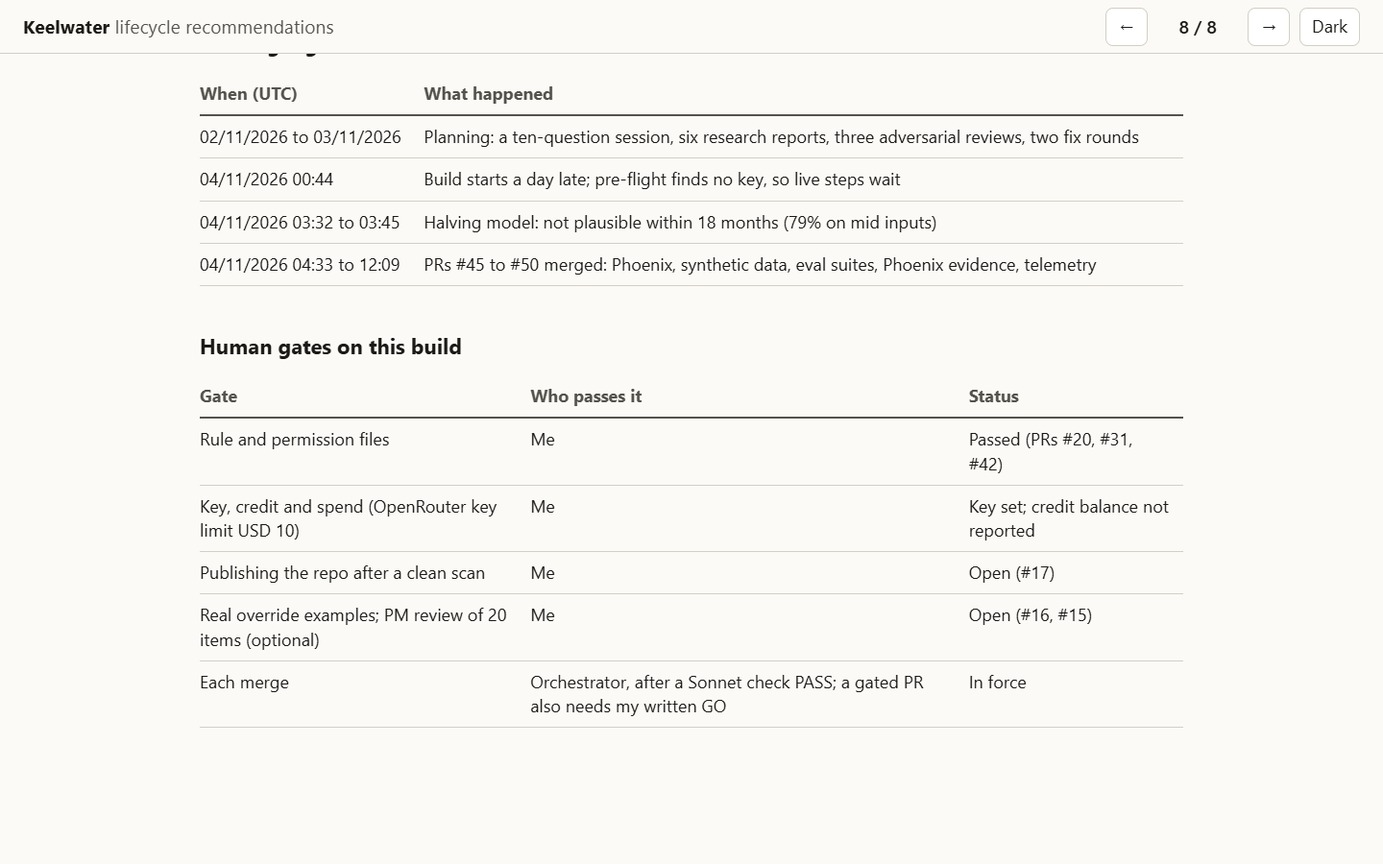
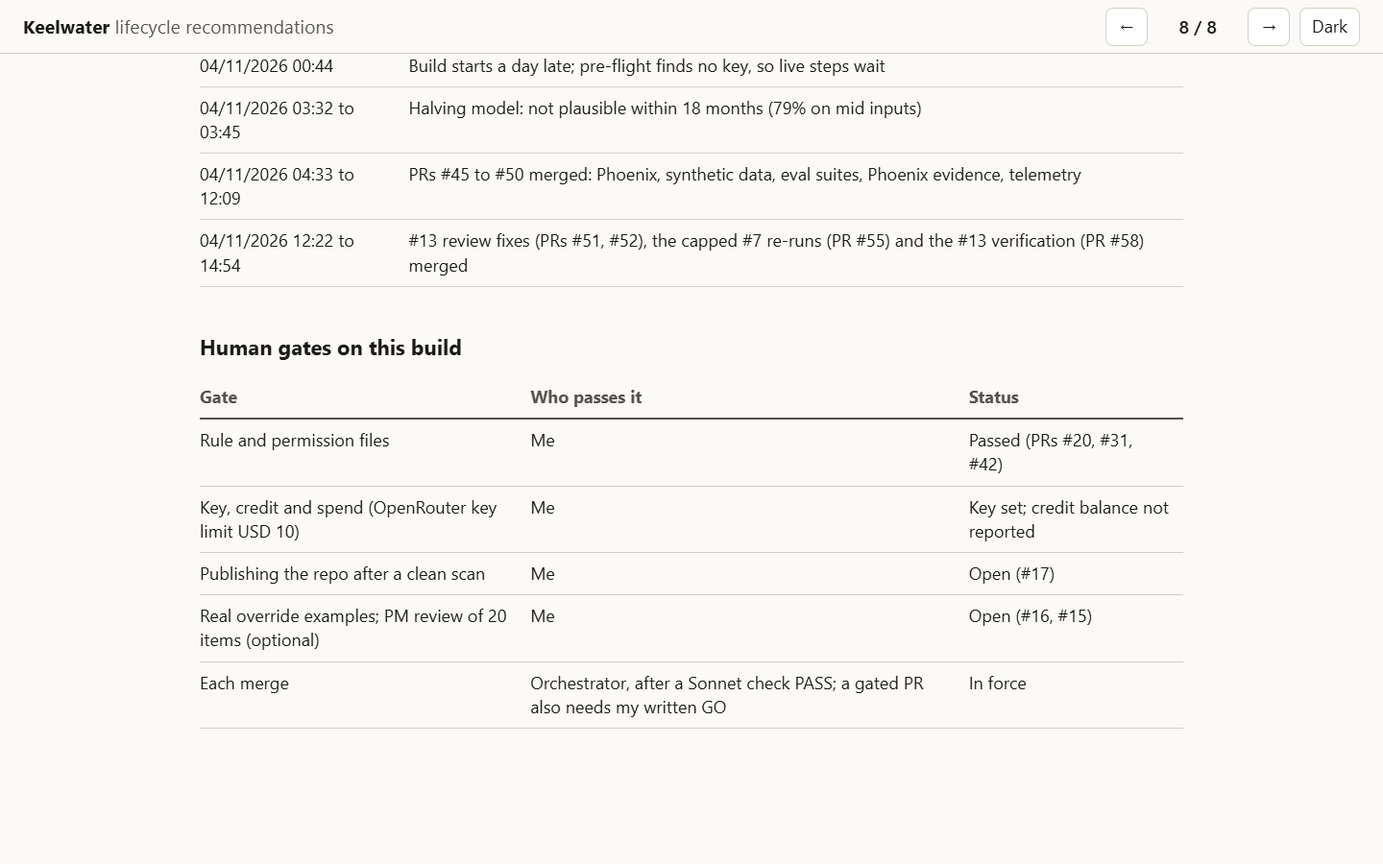
Deck: final refresh after #7, #13 and the telemetry (#40)
Claude-Session: https://claude.ai/code/session_01EjiHfnQNyk2qKsKvuTaiFz

diff --git a/site/presentation/index.html b/site/presentation/index.html
@@ -222,7 +222,7 @@ figure img{width:100%;height:auto;display:block;border:1px solid var(--rule);bor
 <ul>
 <li>Halving idea-to-customer time within 18 months is not plausible on my mid inputs: 79% of today's lead time at month 18.<!-- src: reports/halving/summary.md --></li>
 <li>Six recommendations follow, each linked to its slide.<!-- src: docs/part1-diagnosis-and-plan.md --></li>
-<li>Part 2 runs end to end, but its quality floors fail on the latest eval run (slide 7).<!-- src: reports/eval/ground-truth-6eb6524e16bf4ed7.json --></li>
+<li>Part 2 runs end to end, but its quality floors fail on the latest eval run (slide 7).<!-- src: reports/eval/ground-truth-efe009d511d14c7d.json --></li>
 </ul>
 </div>
 <table>
@@ -1128,8 +1128,8 @@ figure img{width:100%;height:auto;display:block;border:1px solid var(--rule);bor
 <h2 id="h7">It runs end to end; its quality floors fail on the latest eval run.</h2><!-- src: reports/runs/latest-demo.json -->
 <ul>
 <li>The demo data is synthetic: 30 fictional insurers, about 200 records from seven tools, about 1,200 snippets. Code checks every quote and citation.<!-- src: README.md --></li>
-<li>The three AI judges show "calibrating": none has the 50 real PM labels per class it needs.<!-- src: reports/eval/judges-c8f850aeaaae4f24.json --></li>
-<li>The extract filter is merged (PR #55) and each seed has had its one re-run. The floors still fail, and per the author's ruling there is no further loop.<!-- src: GitHub issue #7 Done report (not a repo file) --></li>
+<li>The three AI judges show "calibrating": none has the 50 real PM labels per class it needs.<!-- src: reports/eval/judges-8483fdb0aaee4817.json --></li>
+<li>The extract filter is merged (PR #55) and each seed had its one re-run. The floors still fail, and per the author's ruling there is no further loop.<!-- src: GitHub issue #7 Done report (not a repo file) --></li>
 </ul>
 <p class="cue">Detail below</p>
 </div>
@@ -1157,68 +1157,77 @@ figure img{width:100%;height:auto;display:block;border:1px solid var(--rule);bor
 <p>Running cost is about USD 0.8 per nightly run at demo volume <span class="tag">INFERRED</span> from list prices.<!-- src: docs/architecture.md --> The first live run cost about USD 1.0, estimated by the runner, not metered.<!-- src: docs/ai-usage.md --></p>
 <p>Phoenix also holds 4 datasets and 1 experiment. There are no human labels yet, so human and judge verdicts cannot be shown side by side.<!-- src: docs/screenshots/phoenix-experiments.png (also GitHub issue #10 final comment, not a repo file) --></p>
 
+<h3>Verification</h3>
+<ul class="plain">
+<li>The pre-publish scan of the tree, history, PR heads and issue text (main 480d221) found 0 hits.<!-- src: GitHub issue #13 Done report (not a repo file) --></li>
+<li>From a clean clone with no .env, the replay printed MATCH in 58 s.<!-- src: README.md --></li>
+<li>The canonical run cost USD 0.00 (every call a cache hit); the fresh live proof cost USD 0.198 metered.<!-- src: GitHub issue #13 Done report (not a repo file) --></li>
+<li>An adversarial review by gpt-6.1-sol, a different model family from the Sonnet builders, returned BLOCK twice. Fixes came with failing-first tests; three narrowed items and the outbox ordering are in the README Limits.<!-- src: docs/build-plan.md, README.md --></li>
+<li>The README now carries the results, the limits and how AI was used.<!-- src: README.md --></li>
+</ul>
+
 <!-- EVAL-RESULTS START -->
 <div class="block" id="eval">
-<h3>Eval results, as of 04/11/2026 13:16 UTC</h3>
-<p>Floors come from docs/evals.md. PASS and FAIL are each suite's own gates. Suite files are in reports/eval/ (ground truth 6eb6524e16bf4ed7, holdout 18689fbcca9d4b0a, stability 13baecb8ba094d06, judges c8f850aeaaae4f24). The extract filter is merged (PR #55), one re-run per seed is done, and the floors still fail; per the author's ruling there is no further loop.<!-- src: reports/eval/ground-truth-6eb6524e16bf4ed7.json --> The filter dropped 57 of 360 snippets at extract and kept 303 insights.<!-- src: GitHub issue #7 Done report (not a repo file) --> The diagnosis is that clustering is the limit: average-linkage cosine cannot separate planted themes that share vocabulary.<!-- src: GitHub issue #7 Done report (not a repo file) --> Issue #13 (verification) is still open; its README limits and Done report are pending.<!-- src: GitHub issue #13 (not a repo file) --></p>
+<h3>Eval results, as of 04/11/2026 15:34 UTC</h3>
+<p>Floors come from docs/evals.md. PASS and FAIL are each suite's own gates. Suite files are in reports/eval/ (ground truth efe009d511d14c7d, holdout 67fb4d4fbff640ad, stability 6d7f81793bec4276, judges 8483fdb0aaee4817). The extract filter is merged (PR #55), one re-run per seed is done, and the floors still fail; per the author's ruling there is no further loop.<!-- src: reports/eval/ground-truth-efe009d511d14c7d.json --> The filter dropped 57 of 360 snippets at extract and kept 303 insights.<!-- src: GitHub issue #7 Done report (not a repo file) --> The diagnosis is that clustering is the limit: average-linkage cosine cannot separate planted themes that share vocabulary.<!-- src: GitHub issue #7 Done report (not a repo file) --> The #13 verification re-ran eval --suite all and gave the same verdicts and metrics.<!-- src: reports/eval/ground-truth-efe009d511d14c7d.json, reports/eval/stability-6d7f81793bec4276.json --></p>
 <table>
 <caption>Triage and extraction, seed 42</caption>
 <thead><tr><th>Check</th><th class="n">Result</th><th class="n">Floor</th><th>Gate</th></tr></thead>
 <tbody>
-<tr><td>Signal recall</td><td class="n">0.952</td><td class="n">0.90</td><td class="pass">PASS</td><!-- src: reports/eval/ground-truth-6eb6524e16bf4ed7.json --></tr>
-<tr><td>Noise-drop rate</td><td class="n">0.637</td><td class="n">0.60</td><td class="pass">PASS</td><!-- src: reports/eval/ground-truth-6eb6524e16bf4ed7.json --></tr>
-<tr><td>Bucket accuracy</td><td class="n">0.899</td><td class="n">0.75</td><td class="pass">PASS</td><!-- src: reports/eval/ground-truth-6eb6524e16bf4ed7.json --></tr>
-<tr><td>Quote verification</td><td class="n">0.990 (300 of 303)</td><td class="n">0.93</td><td class="pass">PASS</td><!-- src: reports/eval/ground-truth-6eb6524e16bf4ed7.json --></tr>
-<tr><td>Account attribution</td><td class="n">0.981</td><td class="n">1.00</td><td class="fail">FAIL</td><!-- src: reports/eval/ground-truth-6eb6524e16bf4ed7.json --></tr>
-<tr><td>Noise-audit miss rate</td><td class="n">estimate 0%; exact 0.57%</td><td class="n">reported</td><td>n/a</td><!-- src: reports/eval/ground-truth-6eb6524e16bf4ed7.json --></tr>
+<tr><td>Signal recall</td><td class="n">0.952</td><td class="n">0.90</td><td class="pass">PASS</td><!-- src: reports/eval/ground-truth-efe009d511d14c7d.json --></tr>
+<tr><td>Noise-drop rate</td><td class="n">0.637</td><td class="n">0.60</td><td class="pass">PASS</td><!-- src: reports/eval/ground-truth-efe009d511d14c7d.json --></tr>
+<tr><td>Bucket accuracy</td><td class="n">0.899</td><td class="n">0.75</td><td class="pass">PASS</td><!-- src: reports/eval/ground-truth-efe009d511d14c7d.json --></tr>
+<tr><td>Quote verification</td><td class="n">0.990 (300 of 303)</td><td class="n">0.93</td><td class="pass">PASS</td><!-- src: reports/eval/ground-truth-efe009d511d14c7d.json --></tr>
+<tr><td>Account attribution</td><td class="n">0.981</td><td class="n">1.00</td><td class="fail">FAIL</td><!-- src: reports/eval/ground-truth-efe009d511d14c7d.json --></tr>
+<tr><td>Noise-audit miss rate</td><td class="n">estimate 0%; exact 0.57%</td><td class="n">reported</td><td>n/a</td><!-- src: reports/eval/ground-truth-efe009d511d14c7d.json --></tr>
 </tbody>
 </table>
 <table>
 <caption>Clusters, ranking and briefs, seed 42</caption>
 <thead><tr><th>Check</th><th class="n">Result</th><th class="n">Floor</th><th>Gate</th></tr></thead>
 <tbody>
-<tr><td>Themes recovered</td><td class="n">2 of 6</td><td class="n">6 of 6</td><td class="fail">FAIL</td><!-- src: reports/eval/ground-truth-6eb6524e16bf4ed7.json --></tr>
-<tr><td>Mean purity</td><td class="n">0.588</td><td class="n">0.75</td><td class="fail">FAIL</td><!-- src: reports/eval/ground-truth-6eb6524e16bf4ed7.json --></tr>
-<tr><td>Split themes</td><td class="n">2</td><td class="n">1 at most</td><td class="fail">FAIL</td><!-- src: reports/eval/ground-truth-6eb6524e16bf4ed7.json --></tr>
-<tr><td>Over-merges</td><td class="n">0</td><td class="n">1 at most</td><td class="pass">PASS</td><!-- src: reports/eval/ground-truth-6eb6524e16bf4ed7.json --></tr>
-<tr><td>Citation failures</td><td class="n">7</td><td class="n">0</td><td class="fail">FAIL</td><!-- src: reports/eval/ground-truth-6eb6524e16bf4ed7.json --></tr>
-<tr><td>Noise themes in top 10</td><td class="n">0</td><td class="n">0</td><td class="pass">PASS</td><!-- src: reports/eval/ground-truth-6eb6524e16bf4ed7.json --></tr>
-<tr><td>Exact top-6 set</td><td class="n">no</td><td class="n">yes</td><td class="fail">FAIL</td><!-- src: reports/eval/ground-truth-6eb6524e16bf4ed7.json --></tr>
-<tr><td>Adversarial probe below all six</td><td class="n">yes</td><td class="n">yes</td><td class="pass">PASS</td><!-- src: reports/eval/ground-truth-6eb6524e16bf4ed7.json --></tr>
+<tr><td>Themes recovered</td><td class="n">2 of 6</td><td class="n">6 of 6</td><td class="fail">FAIL</td><!-- src: reports/eval/ground-truth-efe009d511d14c7d.json --></tr>
+<tr><td>Mean purity</td><td class="n">0.588</td><td class="n">0.75</td><td class="fail">FAIL</td><!-- src: reports/eval/ground-truth-efe009d511d14c7d.json --></tr>
+<tr><td>Split themes</td><td class="n">2</td><td class="n">1 at most</td><td class="fail">FAIL</td><!-- src: reports/eval/ground-truth-efe009d511d14c7d.json --></tr>
+<tr><td>Over-merges</td><td class="n">0</td><td class="n">1 at most</td><td class="pass">PASS</td><!-- src: reports/eval/ground-truth-efe009d511d14c7d.json --></tr>
+<tr><td>Citation failures</td><td class="n">7</td><td class="n">0</td><td class="fail">FAIL</td><!-- src: reports/eval/ground-truth-efe009d511d14c7d.json --></tr>
+<tr><td>Noise themes in top 10</td><td class="n">0</td><td class="n">0</td><td class="pass">PASS</td><!-- src: reports/eval/ground-truth-efe009d511d14c7d.json --></tr>
+<tr><td>Exact top-6 set</td><td class="n">no</td><td class="n">yes</td><td class="fail">FAIL</td><!-- src: reports/eval/ground-truth-efe009d511d14c7d.json --></tr>
+<tr><td>Adversarial probe below all six</td><td class="n">yes</td><td class="n">yes</td><td class="pass">PASS</td><!-- src: reports/eval/ground-truth-efe009d511d14c7d.json --></tr>
 </tbody>
 </table>
 <table>
 <caption>Held-out seed 43</caption>
 <thead><tr><th>Check</th><th class="n">Result</th><th class="n">Floor</th><th>Gate</th></tr></thead>
 <tbody>
-<tr><td>Signal recall</td><td class="n">1.000</td><td class="n">0.85</td><td class="pass">PASS</td><!-- src: reports/eval/holdout-18689fbcca9d4b0a.json --></tr>
-<tr><td>Quote verification</td><td class="n">1.000</td><td class="n">0.93</td><td class="pass">PASS</td><!-- src: reports/eval/holdout-18689fbcca9d4b0a.json --></tr>
-<tr><td>Account attribution</td><td class="n">1.000</td><td class="n">1.00</td><td class="pass">PASS</td><!-- src: reports/eval/holdout-18689fbcca9d4b0a.json --></tr>
-<tr><td>Themes recovered</td><td class="n">0 of 3</td><td class="n">2 of 3</td><td class="fail">FAIL</td><!-- src: reports/eval/holdout-18689fbcca9d4b0a.json --></tr>
-<tr><td>Mean purity</td><td class="n">0.389</td><td class="n">0.75</td><td class="fail">FAIL</td><!-- src: reports/eval/holdout-18689fbcca9d4b0a.json --></tr>
-<tr><td>Noise theme in top 10</td><td class="n">1</td><td class="n">0</td><td class="fail">FAIL</td><!-- src: reports/eval/holdout-18689fbcca9d4b0a.json --></tr>
-<tr><td>Citation failures</td><td class="n">5</td><td class="n">no floor listed</td><td class="fail">FAIL</td><!-- src: reports/eval/holdout-18689fbcca9d4b0a.json --></tr>
+<tr><td>Signal recall</td><td class="n">1.000</td><td class="n">0.85</td><td class="pass">PASS</td><!-- src: reports/eval/holdout-67fb4d4fbff640ad.json --></tr>
+<tr><td>Quote verification</td><td class="n">1.000</td><td class="n">0.93</td><td class="pass">PASS</td><!-- src: reports/eval/holdout-67fb4d4fbff640ad.json --></tr>
+<tr><td>Account attribution</td><td class="n">1.000</td><td class="n">1.00</td><td class="pass">PASS</td><!-- src: reports/eval/holdout-67fb4d4fbff640ad.json --></tr>
+<tr><td>Themes recovered</td><td class="n">0 of 3</td><td class="n">2 of 3</td><td class="fail">FAIL</td><!-- src: reports/eval/holdout-67fb4d4fbff640ad.json --></tr>
+<tr><td>Mean purity</td><td class="n">0.389</td><td class="n">0.75</td><td class="fail">FAIL</td><!-- src: reports/eval/holdout-67fb4d4fbff640ad.json --></tr>
+<tr><td>Noise theme in top 10</td><td class="n">1</td><td class="n">0</td><td class="fail">FAIL</td><!-- src: reports/eval/holdout-67fb4d4fbff640ad.json --></tr>
+<tr><td>Citation failures</td><td class="n">5</td><td class="n">no floor listed</td><td class="fail">FAIL</td><!-- src: reports/eval/holdout-67fb4d4fbff640ad.json --></tr>
 </tbody>
 </table>
 <table>
 <caption>Two-batch stability replay</caption>
 <thead><tr><th>Check</th><th class="n">Result</th><th class="n">Floor</th><th>Gate</th></tr></thead>
 <tbody>
-<tr><td>Opportunity IDs lost</td><td class="n">0</td><td class="n">0</td><td class="pass">PASS</td><!-- src: reports/eval/stability-13baecb8ba094d06.json --></tr>
-<tr><td>Memberships shrunk</td><td class="n">0</td><td class="n">0</td><td class="pass">PASS</td><!-- src: reports/eval/stability-13baecb8ba094d06.json --></tr>
-<tr><td>Themes forked across two opportunities</td><td class="n">2</td><td class="n">0</td><td class="fail">FAIL</td><!-- src: reports/eval/stability-13baecb8ba094d06.json --></tr>
+<tr><td>Opportunity IDs lost</td><td class="n">0</td><td class="n">0</td><td class="pass">PASS</td><!-- src: reports/eval/stability-6d7f81793bec4276.json --></tr>
+<tr><td>Memberships shrunk</td><td class="n">0</td><td class="n">0</td><td class="pass">PASS</td><!-- src: reports/eval/stability-6d7f81793bec4276.json --></tr>
+<tr><td>Themes forked across two opportunities</td><td class="n">2</td><td class="n">0</td><td class="fail">FAIL</td><!-- src: reports/eval/stability-6d7f81793bec4276.json --></tr>
 </tbody>
 </table>
 <table>
 <caption>Judges (synthetic labels only; synthetic labels never certify)</caption>
 <thead><tr><th>Judge</th><th class="n">Synthetic labels</th><th class="n">TPR</th><th class="n">TNR</th><th class="n">Real PM labels</th><th>State</th></tr></thead>
 <tbody>
-<tr><td>Signal</td><td class="n">42</td><td class="n">1.00</td><td class="n">0.85</td><td class="n">0 of 50 per class</td><td>calibrating</td><!-- src: reports/eval/judges-c8f850aeaaae4f24.json --></tr>
-<tr><td>Faithfulness</td><td class="n">8</td><td class="n">1.00</td><td class="n">0.75</td><td class="n">0 of 50 per class</td><td>calibrating</td><!-- src: reports/eval/judges-c8f850aeaaae4f24.json --></tr>
-<tr><td>Duplicate</td><td class="n">37</td><td class="n">0.95</td><td class="n">0.80</td><td class="n">0 of 50 per class</td><td>calibrating</td><!-- src: reports/eval/judges-c8f850aeaaae4f24.json --></tr>
+<tr><td>Signal</td><td class="n">42</td><td class="n">1.00</td><td class="n">0.85</td><td class="n">0 of 50 per class</td><td>calibrating</td><!-- src: reports/eval/judges-8483fdb0aaee4817.json --></tr>
+<tr><td>Faithfulness</td><td class="n">8</td><td class="n">1.00</td><td class="n">0.75</td><td class="n">0 of 50 per class</td><td>calibrating</td><!-- src: reports/eval/judges-8483fdb0aaee4817.json --></tr>
+<tr><td>Duplicate</td><td class="n">37</td><td class="n">0.95</td><td class="n">0.80</td><td class="n">0 of 50 per class</td><td>calibrating</td><!-- src: reports/eval/judges-8483fdb0aaee4817.json --></tr>
 </tbody>
 </table>
-<p>Also failing on seed 42: the tagging check (a hard negative was tagged on_roadmap) and the contradictory-evidence check. Both post-ship mentions were found. Brief faithfulness on seed 42 is 0.80, reported but not gated. The judges suite passes its own gates: every item judged, no trust without labels.<!-- src: reports/eval/ground-truth-6eb6524e16bf4ed7.json --><!-- src: reports/eval/judges-c8f850aeaaae4f24.json --></p>
+<p>Also failing on seed 42: the tagging check (a hard negative was tagged on_roadmap) and the contradictory-evidence check. Both post-ship mentions were found. Brief faithfulness on seed 42 is 0.80, reported but not gated. The judges suite passes its own gates: every item judged, no trust without labels.<!-- src: reports/eval/ground-truth-efe009d511d14c7d.json --><!-- src: reports/eval/judges-8483fdb0aaee4817.json --></p>
 </div>
 <!-- EVAL-RESULTS END -->
 
@@ -1233,34 +1242,35 @@ figure img{width:100%;height:auto;display:block;border:1px solid var(--rule);bor
 <h2 id="h8">AI built most of it; I held the spend limit and every judgement call.</h2><!-- src: docs/ai-usage.md -->
 <ul>
 <!-- TELEMETRY START -->
-<li>Sonnet subagents built 11 of the 12 done or partial work orders (92%).<!-- src: reports/factory/build-telemetry.csv --></li>
-<li>Build rows took 1,274.2 wall minutes in total, including waiting. Measured tokens: 3,608,000.<!-- src: reports/factory/build-telemetry.csv --></li>
-<li>Live model spend: USD 1.27, estimated.<!-- src: reports/factory/build-telemetry.csv --></li>
+<li>Sonnet subagents built 12 of the 13 work orders (92%); Codex and agy built 1 of 13 (8%).<!-- src: reports/factory/build-telemetry.csv --></li>
+<li>Build rows took 2,180.4 wall minutes in total, including waiting. Measured tokens: 4,321,000.<!-- src: reports/factory/build-telemetry.csv --></li>
+<li>Live model spend: USD 0.51 measured and USD 1.44 estimated, never added together.<!-- src: reports/factory/build-telemetry.csv --></li>
 <!-- TELEMETRY END -->
 </ul>
 <p class="cue">Detail below</p>
 </div>
 <h3>The short account</h3>
 <ol class="plain">
-<li>What was used. Claude did most of the work. An Opus session planned, dispatched work orders and merged. Sonnet subagents built 11 of the 12 done or partial work orders (92%), checked every pull request and ran the live steps. Haiku read and searched. Codex was the planned builder but built only one offline generator.<!-- src: docs/ai-usage.md --></li>
+<li>What was used. Claude did most of the work. An Opus session planned, dispatched work orders and merged. Sonnet subagents built 12 of the 13 work orders (92%), checked every pull request and ran the live steps. Haiku read and searched. Codex was the planned builder but built only #2's offline generator (PR #33); it stalled or hit its usage limit on #1, #4, #5, #6 and #10. agy (Gemini) was blocked on #7. Together they built 1 of 13 (8%).<!-- src: docs/ai-usage.md --></li>
 <li>Where I trusted it, and where I overrode it. I trusted mechanical work once the tests ran and a separate check passed. I overrode four AI recommendations: open-weight models instead of a paid frontier API, a public repo, a one-day demo build, and keeping a decision model the AI had dismissed.<!-- src: docs/ai-usage.md --></li>
-<li>What AI got wrong, and how it was caught. The AI put a closed-weight, US-hosted decision model into production triage. Research found it cannot run inside a private network, so I replaced it. A worker's report also said 5 links where the PDF had 4. An independent check caught it, but the first check had passed the same commit, and the issue was reopened.<!-- src: docs/ai-usage.md --></li>
+<li>What AI got wrong, and how it was caught. The AI put a closed-weight, US-hosted decision model into production triage. Research found it cannot run inside a private network, so I replaced it. A worker's report also said 5 links where the PDF had 4, and a footnote link went nowhere (#12, PR #22). The planning chat flagged it seven minutes after the Done report. The first Sonnet check then passed the same commit four minutes later, the merge went ahead on that pass, and the issue was reopened.<!-- src: docs/ai-usage.md --></li>
 </ol>
 <figure class="fig">
-<svg class="chart" viewBox="0 0 960 386" role="img" aria-labelledby="t652925536"><title id="t652925536">Tokens per engine on this build, measured and estimated apart</title><desc>Measured tokens, estimated tokens and the count of rows with no figure, per engine, from the build telemetry file. sonnet: 3,555,000 measured, 187,000 estimated, 5 rows not reported; agy: 53,000 measured, 0 estimated, 0 rows not reported; codex: 0 measured, 0 estimated, 9 rows not reported; opus: 0 measured, 107,000 estimated, 0 rows not reported.</desc><defs><pattern id="hatch" width="7" height="7" patternUnits="userSpaceOnUse" patternTransform="rotate(45)"><rect width="7" height="7" class="sf"/><line x1="0" y1="0" x2="0" y2="7" class="hl"/></pattern></defs><text class="tk" x="952" y="18" text-anchor="end">Rows with no token figure (one square each)</text><text class="tl" x="0" y="72">sonnet</text><rect class="bar c1" x="90" y="36" width="500.0" height="26" rx="3"/><text class="tk" x="600.0" y="55">3,555,000 measured</text><rect class="bar est" x="90" y="70" width="26.3" height="26" rx="3"/><text class="tk" x="126.3" y="89">187,000 estimated</text><rect class="nr" x="936" y="54" width="18" height="18" rx="2"/><rect class="nr" x="912" y="54" width="18" height="18" rx="2"/><rect class="nr" x="888" y="54" width="18" height="18" rx="2"/><rect class="nr" x="864" y="54" width="18" height="18" rx="2"/><rect class="nr" x="840" y="54" width="18" height="18" rx="2"/><text class="tl" x="0" y="156">agy</text><rect class="bar c1" x="90" y="120" width="7.5" height="26" rx="3"/><text class="tk" x="107.5" y="139">53,000 measured</text><text class="tk" x="94" y="173">0 estimated</text><text class="tl" x="0" y="240">codex</text><text class="tk" x="94" y="223">0 measured</text><text class="tk" x="94" y="257">0 estimated</text><rect class="nr" x="936" y="222" width="18" height="18" rx="2"/><rect class="nr" x="912" y="222" width="18" height="18" rx="2"/><rect class="nr" x="888" y="222" width="18" height="18" rx="2"/><rect class="nr" x="864" y="222" width="18" height="18" rx="2"/><rect class="nr" x="840" y="222" width="18" height="18" rx="2"/><rect class="nr" x="816" y="222" width="18" height="18" rx="2"/><rect class="nr" x="792" y="222" width="18" height="18" rx="2"/><rect class="nr" x="768" y="222" width="18" height="18" rx="2"/><rect class="nr" x="744" y="222" width="18" height="18" rx="2"/><text class="tl" x="0" y="324">opus</text><text class="tk" x="94" y="307">0 measured</text><rect class="bar est" x="90" y="322" width="15.0" height="26" rx="3"/><text class="tk" x="115.0" y="341">107,000 estimated</text></svg>
-<figcaption>Tokens per engine across the 47 telemetry rows. Measured and estimated tokens are kept apart; rows with no figure are counted, never added in. Haiku and the planning chat's own tokens are not in this file.<!-- src: reports/factory/build-telemetry.csv --></figcaption>
+<svg class="chart" viewBox="0 0 960 386" role="img" aria-labelledby="t652925536"><title id="t652925536">Tokens per engine on this build, measured and estimated apart</title><desc>Measured tokens, estimated tokens and the count of rows with no figure, per engine, from the build telemetry file. sonnet: 4,268,000 measured, 2,087,000 estimated, 6 rows not reported; agy: 53,000 measured, 0 estimated, 0 rows not reported; codex: 0 measured, 0 estimated, 8 rows not reported; opus: 0 measured, 157,000 estimated, 0 rows not reported.</desc><defs><pattern id="hatch" width="7" height="7" patternUnits="userSpaceOnUse" patternTransform="rotate(45)"><rect width="7" height="7" class="sf"/><line x1="0" y1="0" x2="0" y2="7" class="hl"/></pattern></defs><text class="tk" x="952" y="18" text-anchor="end">Rows with no token figure (one square each)</text><text class="tl" x="0" y="72">sonnet</text><rect class="bar c1" x="90" y="36" width="500.0" height="26" rx="3"/><text class="tk" x="600.0" y="55">4,268,000 measured</text><rect class="bar est" x="90" y="70" width="244.5" height="26" rx="3"/><text class="tk" x="344.5" y="89">2,087,000 estimated</text><rect class="nr" x="936" y="54" width="18" height="18" rx="2"/><rect class="nr" x="912" y="54" width="18" height="18" rx="2"/><rect class="nr" x="888" y="54" width="18" height="18" rx="2"/><rect class="nr" x="864" y="54" width="18" height="18" rx="2"/><rect class="nr" x="840" y="54" width="18" height="18" rx="2"/><rect class="nr" x="816" y="54" width="18" height="18" rx="2"/><text class="tl" x="0" y="156">agy</text><rect class="bar c1" x="90" y="120" width="6.2" height="26" rx="3"/><text class="tk" x="106.2" y="139">53,000 measured</text><text class="tk" x="94" y="173">0 estimated</text><text class="tl" x="0" y="240">codex</text><text class="tk" x="94" y="223">0 measured</text><text class="tk" x="94" y="257">0 estimated</text><rect class="nr" x="936" y="222" width="18" height="18" rx="2"/><rect class="nr" x="912" y="222" width="18" height="18" rx="2"/><rect class="nr" x="888" y="222" width="18" height="18" rx="2"/><rect class="nr" x="864" y="222" width="18" height="18" rx="2"/><rect class="nr" x="840" y="222" width="18" height="18" rx="2"/><rect class="nr" x="816" y="222" width="18" height="18" rx="2"/><rect class="nr" x="792" y="222" width="18" height="18" rx="2"/><rect class="nr" x="768" y="222" width="18" height="18" rx="2"/><text class="tl" x="0" y="324">opus</text><text class="tk" x="94" y="307">0 measured</text><rect class="bar est" x="90" y="322" width="18.4" height="26" rx="3"/><text class="tk" x="118.4" y="341">157,000 estimated</text></svg>
+<figcaption>Tokens per engine across the 55 telemetry rows. Measured and estimated tokens are kept apart; rows with no figure are counted, never added in. Haiku and the planning chat's own tokens are not in this file.<!-- src: reports/factory/build-telemetry.csv --></figcaption>
 </figure>
 <h3>Agent time, tokens and spend against my hours</h3>
 <table>
 <thead><tr><th>Measure</th><th>Value and basis</th></tr></thead>
 <tbody>
 <!-- TELEMETRY START -->
-<tr><td>Agent wall time</td><td>1,274.2 minutes across 12 build rows (about 21.2 hours). It runs from Started to the final report and includes waiting; it is not engine time.<!-- src: docs/ai-usage.md --></td></tr>
-<tr><td>Tokens, measured</td><td class="num">3,608,000 across 47 rows (13 work orders)<!-- src: reports/factory/build-telemetry.csv --></td></tr>
-<tr><td>Tokens, estimated</td><td class="num">294,000<!-- src: reports/factory/build-telemetry.csv --></td></tr>
-<tr><td>Rows with tokens not reported</td><td class="num">14<!-- src: reports/factory/build-telemetry.csv --></td></tr>
-<tr><td>Live model spend</td><td>USD 1.27 estimated (#2 USD 0.27; #7 USD 1.0); not reported on four rows<!-- src: reports/factory/build-telemetry.csv --></td></tr>
-<tr><td>Planning-session subagents (not in the CSV)</td><td>2,140,560 measured over 20 runs (Sonnet 1,778,758; Haiku 361,802). The harness does not report the orchestrator's own tokens.<!-- src: docs/ai-usage.md --></td></tr>
+<tr><td>Agent wall time</td><td>2,180.4 minutes across 13 build rows (about 36.3 hours). It runs from Started to the final report and includes waiting; it is not engine time, and work orders ran in parallel.<!-- src: docs/ai-usage.md --></td></tr>
+<tr><td>Tokens, measured</td><td class="num">4,321,000 across 55 rows (13 work orders)</td><!-- src: reports/factory/build-telemetry.csv --></tr>
+<tr><td>Tokens, estimated</td><td class="num">2,244,000</td><!-- src: reports/factory/build-telemetry.csv --></tr>
+<tr><td>Rows with tokens not reported</td><td class="num">14</td><!-- src: reports/factory/build-telemetry.csv --></tr>
+<tr><td>Live model spend</td><td>USD 0.51 measured (#7 0.14, #13 0.3688); USD 1.44 estimated (#2, #7, #13); not reported for #4, #11 and #12<!-- src: docs/ai-usage.md --></td></tr>
+<tr><td>First check, build rows</td><td>Sonnet 7 of 12 passed (58%), Codex 1 of 1; 5 REWORK verdicts in total<!-- src: reports/factory/build-telemetry.csv --></td></tr>
+<tr><td>Build-session subagents (not in the CSV)</td><td>3,468,573 measured over 29 runs through about 15:30 UTC (Sonnet 2,857,635; Haiku 610,938). The harness does not report the orchestrator's own tokens.<!-- src: docs/ai-usage.md --></td></tr>
 <!-- TELEMETRY END -->
 <tr><td>Plan</td><td>About 22 agent-hours<!-- src: docs/ai-usage.md --></td></tr>
 <tr><td>My own time</td><td>About 2 hours by 04/11/2026 02:30 (my estimate), within the 4-hour ask<!-- src: docs/ai-usage.md --></td></tr>
@@ -1274,6 +1284,7 @@ figure img{width:100%;height:auto;display:block;border:1px solid var(--rule);bor
 <tr><td>04/11/2026 00:44</td><td>Build starts a day late; pre-flight finds no key, so live steps wait<!-- src: docs/ai-usage.md --></td></tr>
 <tr><td>04/11/2026 03:32 to 03:45</td><td>Halving model: not plausible within 18 months (79% on mid inputs)<!-- src: docs/ai-usage.md --></td></tr>
 <tr><td>04/11/2026 04:33 to 12:09</td><td>PRs #45 to #50 merged: Phoenix, synthetic data, eval suites, Phoenix evidence, telemetry<!-- src: docs/ai-usage.md --></td></tr>
+<tr><td>04/11/2026 12:22 to 14:54</td><td>#13 review fixes (PRs #51, #52), the capped #7 re-runs (PR #55) and the #13 verification (PR #58) merged<!-- src: docs/ai-usage.md --></td></tr>
 </tbody>
 </table>
 <h3>Human gates on this build</h3>

diff --git a/scripts/deck_charts.py b/scripts/deck_charts.py
@@ -89,7 +89,7 @@ def telemetry_rows():
     with open(ROOT / "reports" / "factory" / "build-telemetry.csv", encoding="utf-8", newline="") as f:
         for r in csv.DictReader(f):
             b, t = r["tokens_basis"], r["tokens_total"]
-            if b in ("measured", "estimated"):
+            if b in ("measured", "estimated") and t.isdigit():
                 d[r["engine"]][b] += int(t)
             else:
                 d[r["engine"]]["none"] += 1
@@ -98,7 +98,8 @@ def telemetry_rows():
 
 def telemetry_chart():
     d = telemetry_rows()
-    W, X0, SC = 960, 90, 500 / 3_555_000
+    W, X0 = 960, 90
+    SC = 500 / max(max(v["measured"], v["estimated"]) for v in d.values())
     H = 50 + 84 * len(d)
     defs = ('<defs><pattern id="hatch" width="7" height="7" patternUnits="userSpaceOnUse" patternTransform="rotate(45)">'
             '<rect width="7" height="7" class="sf"/><line x1="0" y1="0" x2="0" y2="7" class="hl"/></pattern></defs>')
